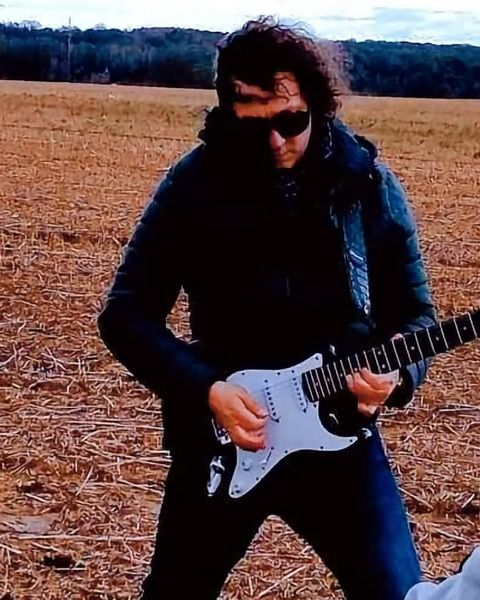
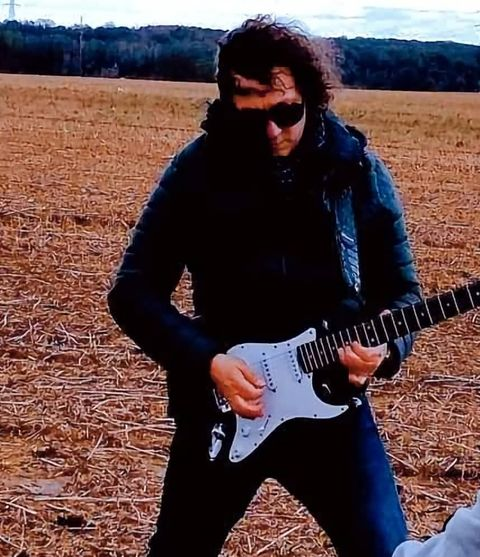
Band: tutti i musicisti vicini, ognuno con nome e strumento
- Una fila sola: la foto di Franco Presti, Gianfranco Alberti e Luigi Scuderi,
  poi Giuseppe Faro dal vivo e Giuseppe Bertolo, tutte alte uguali
- Didascalia di Faro: solo tastiere
- La foto del pubblico passa accanto alla formazione

Claude-Session: https://claude.ai/code/session_01WyukLfC3abkZ9PR6bCBv2f

diff --git a/style.css b/style.css
@@ -14,14 +14,6 @@
 /* foto delle sezioni */
 .concerti__photo { --ratio: 100%; }
 
-/* la band: un muro di due foto, 2px tra l'una e l'altra */
-.wall { display: grid; grid-template-columns: repeat(2, minmax(0, 1fr)); grid-template-areas: "trio pubblico" "nomi ."; column-gap: 2px; }
-.wall > img { width: 100%; aspect-ratio: 4 / 3; height: auto; object-fit: cover; display: block; }
-.wall__trio { grid-area: trio; border-radius: var(--r-lg) 0 0 var(--r-lg); }
-.wall__pubblico { grid-area: pubblico; border-radius: 0 var(--r-lg) var(--r-lg) 0; }
-/* i nomi sotto ciascuno dei tre musicisti della prima foto */
-.wall__nomi { grid-area: nomi; margin: var(--s-3) 0 0; display: grid; grid-template-columns: repeat(3, minmax(0, 1fr)); text-align: center; font-size: var(--t-small); font-weight: 500; color: var(--ink); }
-
 /* cornici dei video TikTok: senza bordo, fondo nero */
 .frame--video { padding: 0; border: 0; background: #000; overflow: hidden; }
 
@@ -30,16 +22,6 @@
 
 /* tablet (schermi alti): gli split restano affiancati e le immagini prendono l'altezza dello schermo,
    così ogni sezione riempie il suo schermo senza sforare */
-@media (min-width: 640px) and (max-width: 1023px) {
-  .wall > img { aspect-ratio: 883 / 1024; }
-}
-@media (max-width: 639px) {
-  .wall { grid-template-columns: 1fr; grid-template-areas: "trio" "nomi" "pubblico"; row-gap: 2px; }
-  .wall__trio { border-radius: var(--r-lg); }
-  .wall__pubblico { margin-top: var(--s-4); border-radius: var(--r-lg); }
-  .wall__nomi { margin-bottom: 0; }
-  #band .group + .group { margin-top: var(--s-7); }
-}
 
 /* concerti: il widget eventi di Facebook */
 .fb-eventi { width: 100%; max-width: 500px; min-height: 380px; border-radius: var(--r-md); overflow: hidden; background: var(--surface); }
@@ -66,14 +48,23 @@
 .rows--compact > li { padding-block: var(--s-3); }
 .rows--compact > li:first-child { padding-top: 0; }
 .rows--compact .rows__value { color: var(--muted); white-space: nowrap; font-variant-numeric: tabular-nums; }
-/* i ritratti dei musicisti: due affiancati accanto alla formazione */
-.ritratti { display: grid; grid-template-columns: repeat(2, minmax(0, 1fr)); gap: var(--gutter); align-content: start; }
-.ritratto { margin: 0; display: grid; gap: var(--s-3); align-content: start; }
-.ritratto > img { width: 100%; aspect-ratio: 4 / 5; height: auto; object-fit: cover; border-radius: var(--r-lg); display: block; transition: transform 300ms cubic-bezier(.23, 1, .32, 1); }
-.ritratto figcaption { display: grid; gap: 2px; }
-.ritratto__nome { font-weight: 500; font-size: var(--t-card); }
-.ritratto__ruolo { color: var(--muted); }
-/* gli articoli: tre colonne sotto i ritratti */
+/* i musicisti uno accanto all'altro: la foto dei tre, poi Faro e Bertolo, tutte alte uguali */
+.musicisti { align-items: start; }
+.musicista { margin: 0; display: grid; gap: var(--s-3); }
+.musicista > img { width: 100%; height: auto; aspect-ratio: 883 / 1024; object-fit: cover; border-radius: var(--r-lg); display: block; }
+.musicista figcaption, .musicista__trio-nomi > span { display: grid; gap: 2px; color: var(--muted); font-size: var(--t-small); }
+.musicista b { font-weight: 500; font-size: var(--t-body); color: var(--ink); }
+.musicista__trio-nomi { display: grid; grid-template-columns: repeat(3, minmax(0, 1fr)); text-align: center; }
+.musicista__trio-nomi > span { justify-items: center; }
+.band__pubblico { --ratio: 75%; }
+@media (min-width: 640px) and (max-width: 1023px) { .grid.musicisti > .musicista { grid-column: auto / span 4; } }
+@media (max-width: 639px) {
+  #band .group + .group { margin-top: var(--s-7); }
+  .grid.musicisti { row-gap: var(--s-5); }
+  .grid.musicisti > .musicista { grid-column: auto / span 6; }
+  .grid.musicisti > .musicista--trio { grid-column: 1 / -1; }
+}
+/* gli articoli: tre colonne sotto la formazione */
 .stampa { margin-top: var(--s-7); }
 .stampa__lista { list-style: none; margin: 0; padding: 0; display: grid; grid-template-columns: repeat(3, minmax(0, 1fr)); gap: var(--gutter); }
 .stampa__lista > li { display: grid; gap: var(--s-2); align-content: start; padding-top: var(--s-4); border-top: 1px solid var(--line); }
@@ -91,7 +82,7 @@
   .band__info > .band__formazione { grid-column: 1 / -1; }
   .band__formazione .rows--compact { columns: 2; column-gap: var(--gutter); }
   .band__formazione .rows--compact > li { break-inside: avoid; }
-  .grid.band__info > .ritratti { grid-column: 1 / -1; }
+  .grid.band__info > .band__pubblico { grid-column: 1 / -1; }
   #concerti .grid--top > * { grid-column: auto / span 6; }
 }
 @media (max-width: 639px) {
@@ -101,7 +92,6 @@
   main > #video.g2 > .wrap { display: block; }
   #tiktok-2 { margin-top: var(--gutter); }
   .band__info { row-gap: var(--s-6); }
-  .ritratti { grid-template-columns: repeat(2, minmax(0, 1fr)); }
   .stampa__lista { grid-template-columns: 1fr; }
   .concerti__photo { --ratio: 75%; }
 }
@@ -139,5 +129,4 @@ main > :is(section, .section) > .wrap > .fill { flex: 1 0 auto; }
 }
 
 @media (prefers-reduced-motion: reduce) {
-  .stampa__lista a, .ritratto > img { transition: none; }
-}
+  .stampa__lista a, }

diff --git a/index.html b/index.html
@@ -99,10 +99,24 @@
           <h2 id="band-h">La band, dal 2007</h2>
           <p>Siamo nati a Catania all'inizio del 2007. Il repertorio viene dai grandi concerti di Claudio Baglioni e lo suoniamo con gli arrangiamenti originali, senza riletture personali.</p>
         </div>
-        <div class="wall">
-          <img class="wall__trio" src="assets/img/band-musicisti.jpg" srcset="assets/img/band-musicisti-600.jpg 600w, assets/img/band-musicisti.jpg 883w" sizes="(min-width: 640px) 44vw, 100vw" width="883" height="1024" alt="Da sinistra: Franco Presti alla chitarra, Gianfranco Alberti alla voce e Luigi Scuderi al basso" loading="lazy" style="object-position: 50% 22%">
-          <img class="wall__pubblico" src="assets/img/concerti-pubblico.jpg" srcset="assets/img/concerti-pubblico-600.jpg 600w, assets/img/concerti-pubblico.jpg 960w" sizes="(min-width: 640px) 44vw, 100vw" width="960" height="728" alt="Il pubblico davanti al palco durante un concerto degli audioClaB" loading="lazy">
-          <p class="wall__nomi" aria-hidden="true"><span>Franco Presti</span><span>Gianfranco Alberti</span><span>Luigi Scuderi</span></p>
+        <!-- i musicisti uno accanto all'altro, ognuno con il nome sotto -->
+        <div class="grid musicisti">
+          <figure class="musicista musicista--trio span-4">
+            <img src="assets/img/band-musicisti.jpg" srcset="assets/img/band-musicisti-600.jpg 600w, assets/img/band-musicisti.jpg 883w" sizes="(min-width: 640px) 30vw, 100vw" width="883" height="1024" alt="Da sinistra: Franco Presti alla chitarra, Gianfranco Alberti alla voce e Luigi Scuderi al basso" loading="lazy">
+            <figcaption class="musicista__trio-nomi">
+              <span><b>Franco Presti</b>chitarre</span>
+              <span><b>Gianfranco Alberti</b>voce</span>
+              <span><b>Luigi Scuderi</b>basso</span>
+            </figcaption>
+          </figure>
+          <figure class="musicista span-4">
+            <img src="assets/img/faro-621.jpg" srcset="assets/img/faro-450.jpg 450w, assets/img/faro-621.jpg 621w" sizes="(min-width: 640px) 30vw, 50vw" width="621" height="720" alt="Giuseppe Faro alle tastiere sul palco, davanti al pubblico" loading="lazy">
+            <figcaption><b>Giuseppe Faro</b>tastiere</figcaption>
+          </figure>
+          <figure class="musicista span-4">
+            <img src="assets/img/bertolo-800.jpg" srcset="assets/img/bertolo-480.jpg 480w, assets/img/bertolo-800.jpg 800w" sizes="(min-width: 640px) 30vw, 50vw" width="800" height="928" alt="Giuseppe Bertolo suona la chitarra elettrica in un campo" loading="lazy">
+            <figcaption><b>Giuseppe Bertolo</b>chitarre</figcaption>
+          </figure>
         </div>
       </div>
       <div class="group">
@@ -119,15 +133,8 @@
               <li><span class="rows__name">Andrea Bruno</span><span class="rows__value">batteria</span></li>
             </ul>
           </div>
-          <div class="span-6 start-7 ritratti">
-            <figure class="ritratto">
-              <img src="assets/img/faro-576.jpg" srcset="assets/img/faro-480.jpg 480w, assets/img/faro-576.jpg 576w" sizes="(min-width: 1024px) 15vw, (min-width: 640px) 30vw, 50vw" width="576" height="720" alt="Giuseppe Faro alle tastiere sul palco, davanti al pubblico" loading="lazy">
-              <figcaption><span class="ritratto__nome">Giuseppe Faro</span><span class="ritratto__ruolo">tastiere, dal vivo</span></figcaption>
-            </figure>
-            <figure class="ritratto">
-              <img src="assets/img/bertolo-800.jpg" srcset="assets/img/bertolo-480.jpg 480w, assets/img/bertolo-800.jpg 800w" sizes="(min-width: 1024px) 15vw, (min-width: 640px) 30vw, 50vw" width="800" height="1000" alt="Giuseppe Bertolo suona la chitarra elettrica in un campo" loading="lazy">
-              <figcaption><span class="ritratto__nome">Giuseppe Bertolo</span><span class="ritratto__ruolo">chitarre</span></figcaption>
-            </figure>
+          <div class="frame frame--photo span-6 start-7 band__pubblico">
+            <img class="frame__img" src="assets/img/concerti-pubblico.jpg" srcset="assets/img/concerti-pubblico-600.jpg 600w, assets/img/concerti-pubblico.jpg 960w" sizes="(min-width: 640px) 44vw, 100vw" width="960" height="728" alt="Il pubblico davanti al palco durante un concerto degli audioClaB" loading="lazy">
           </div>
         </div>
         <div class="stampa">
